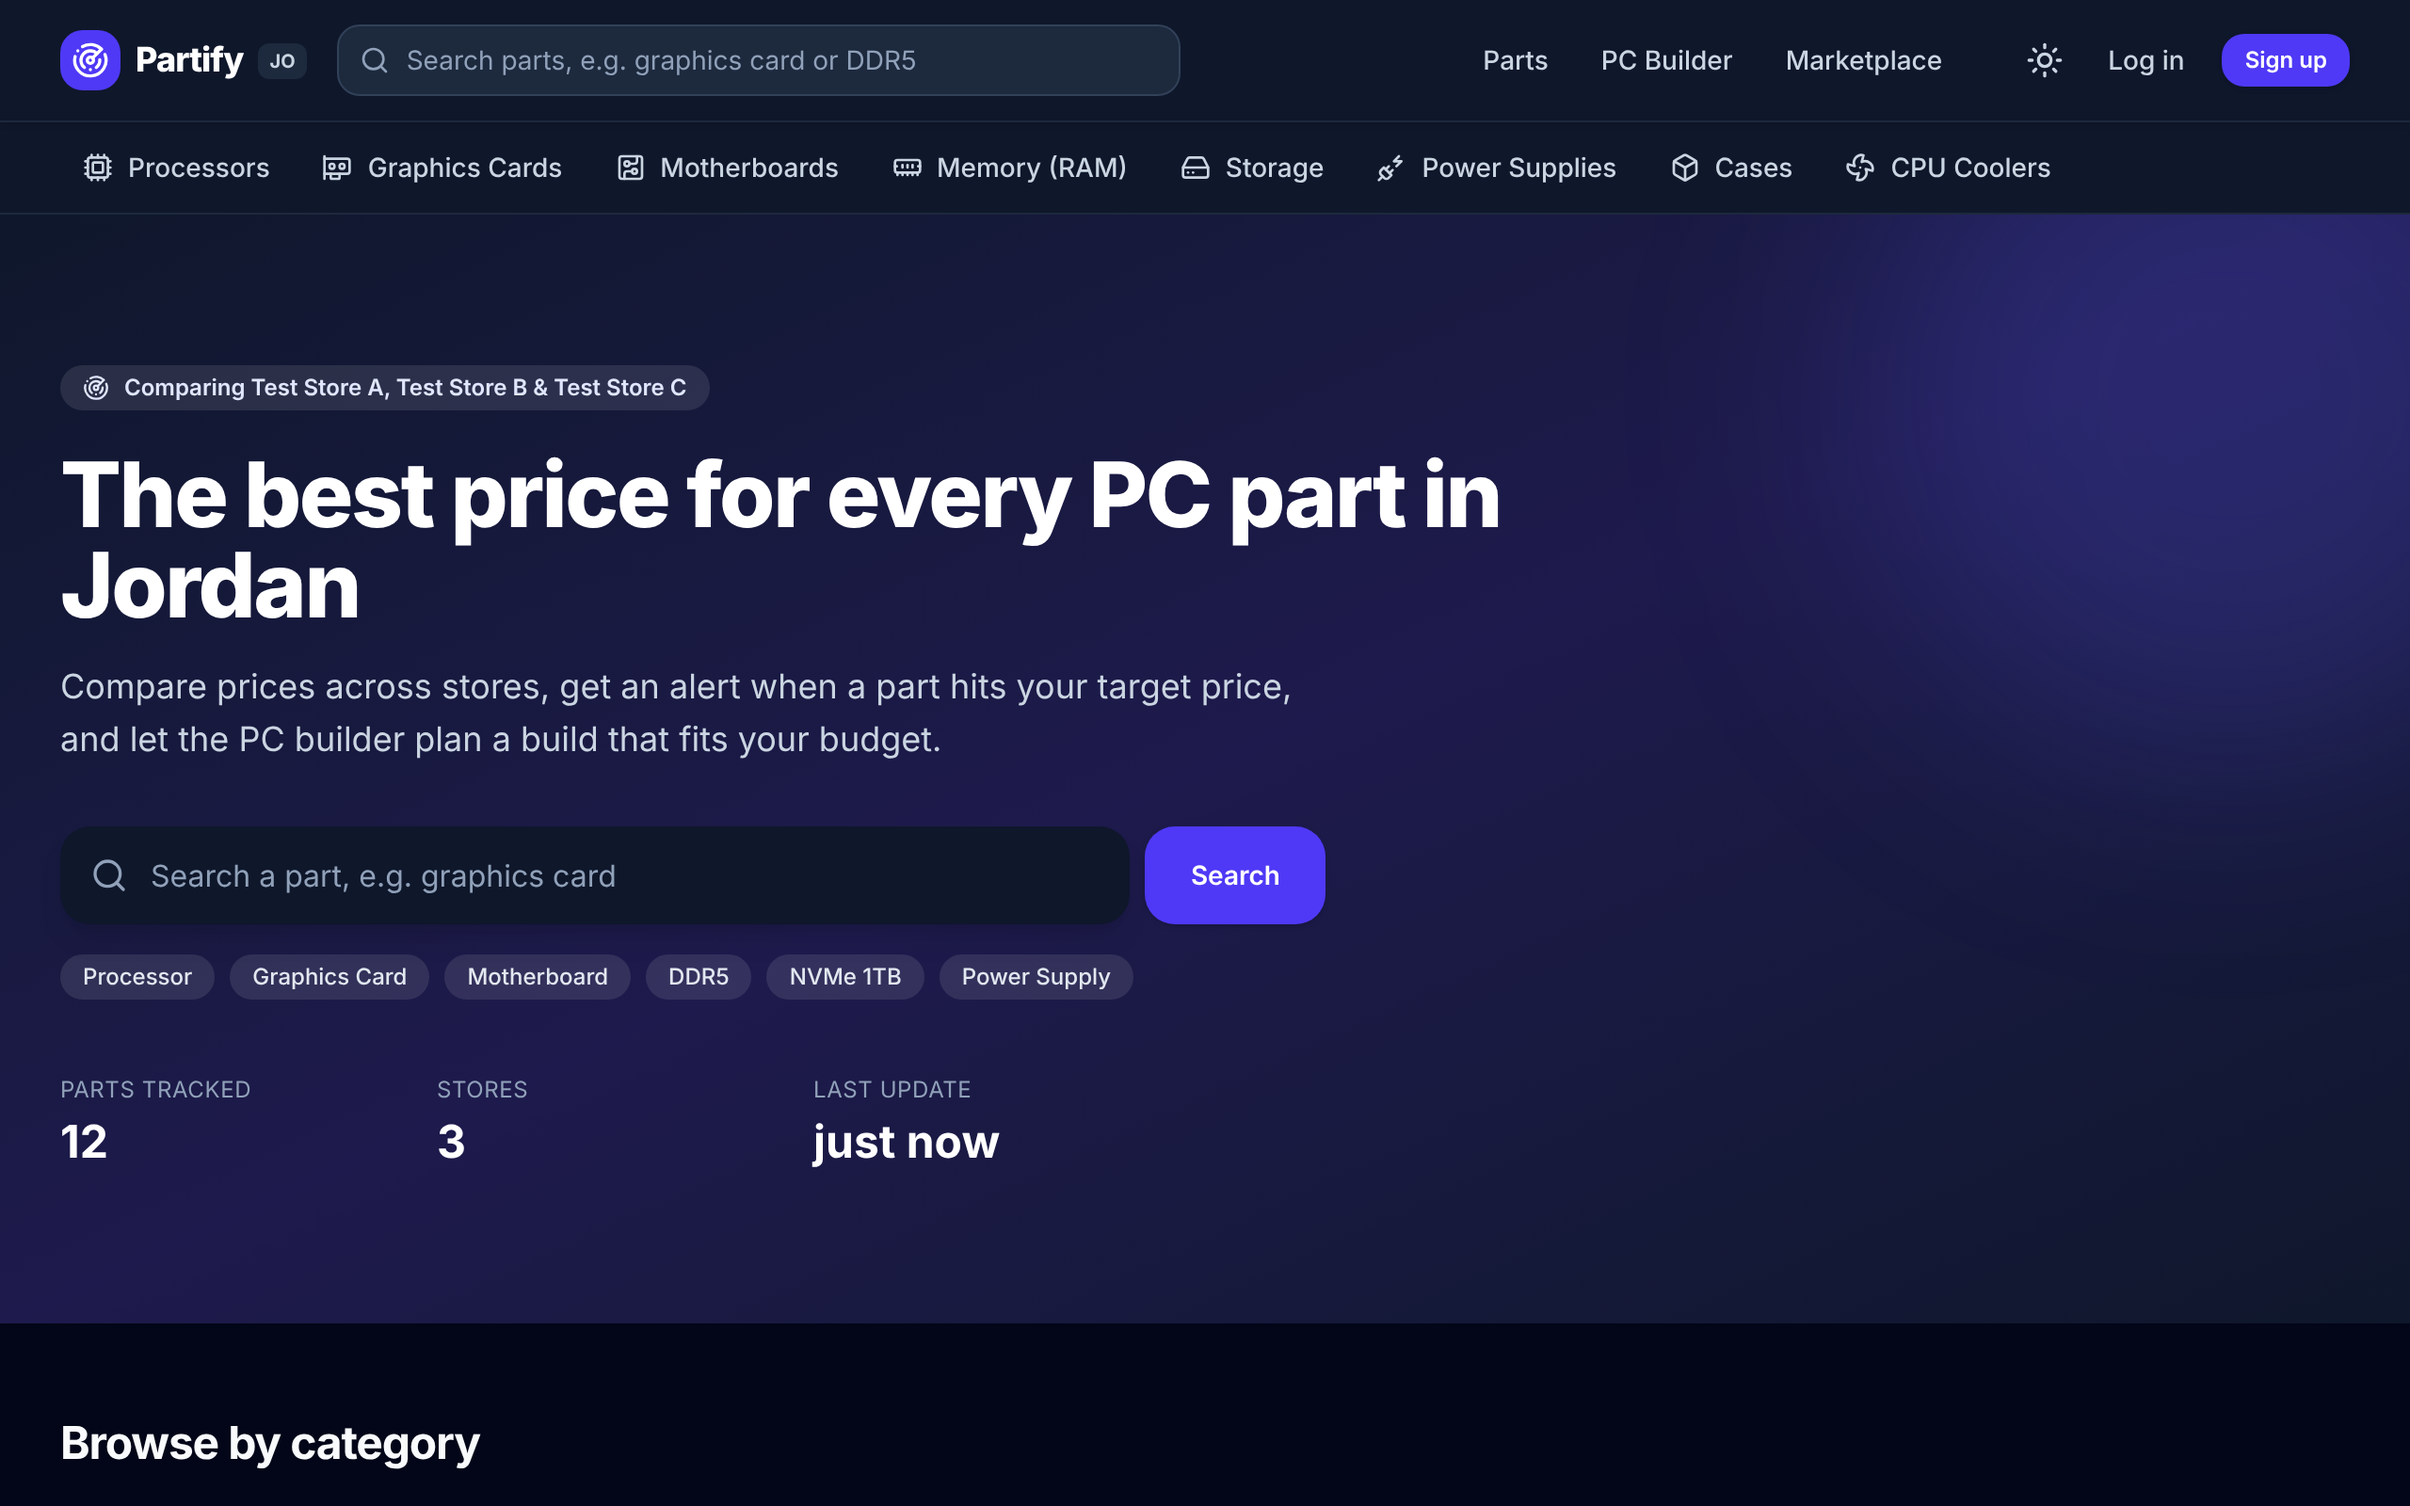
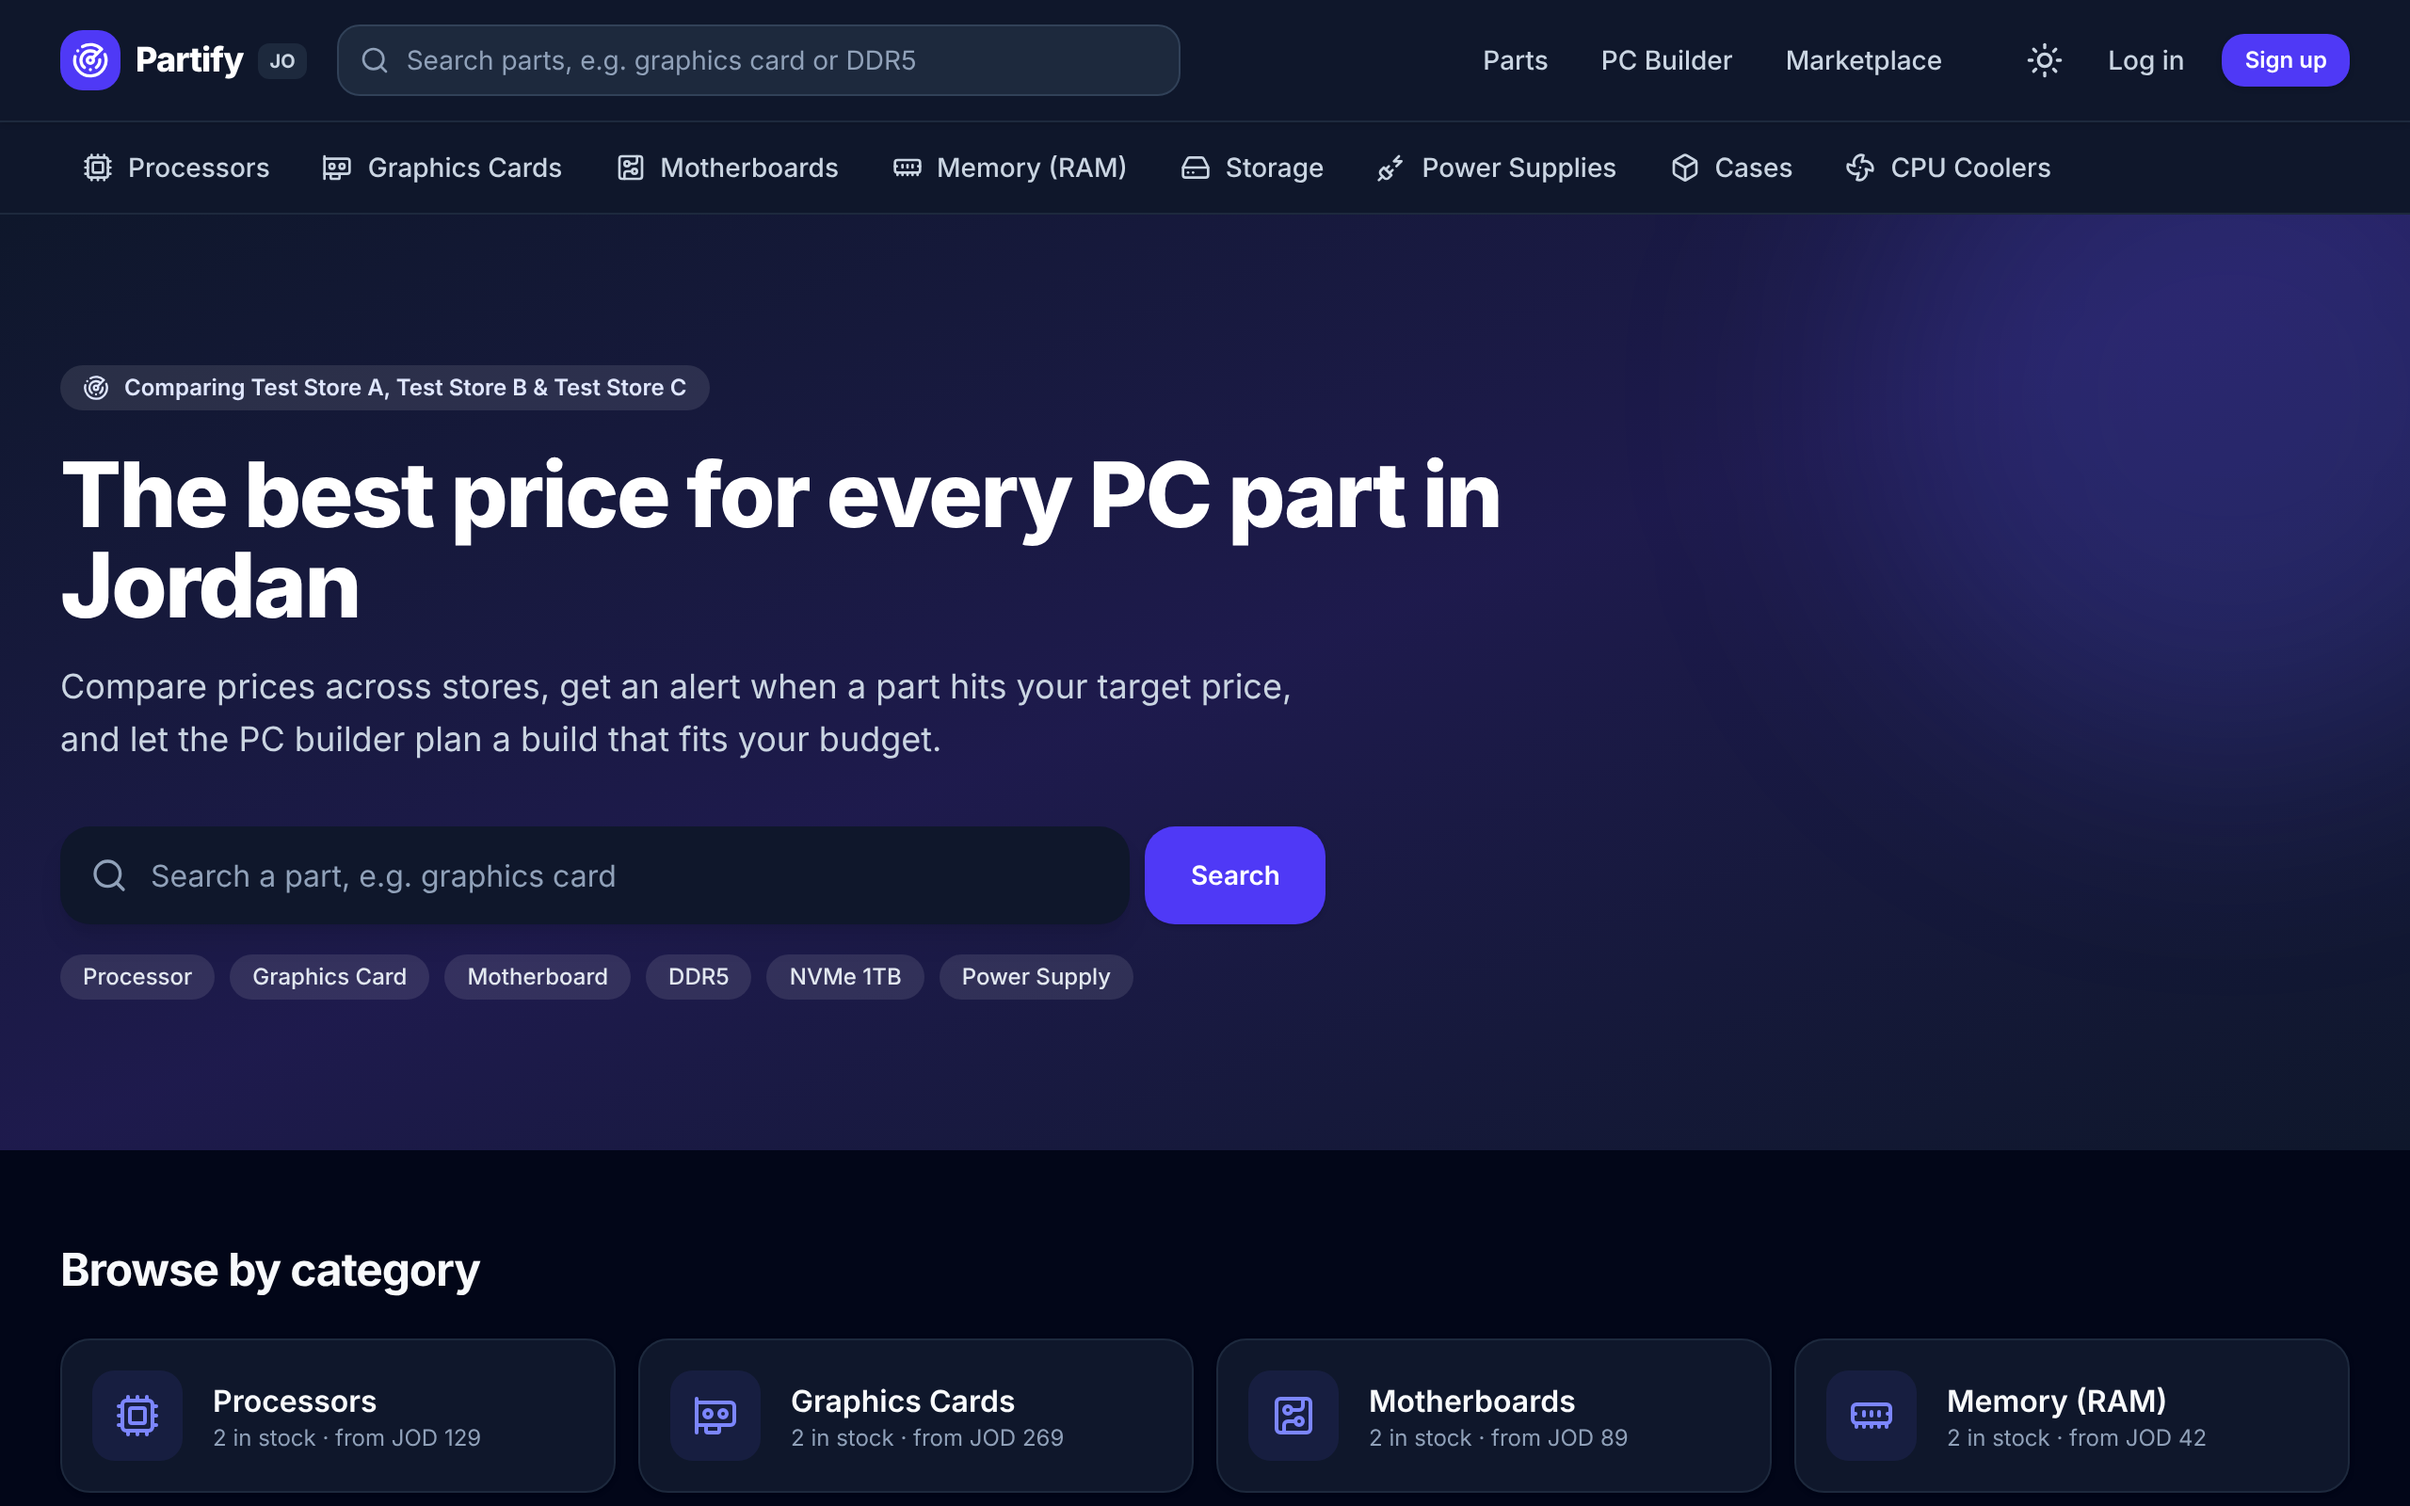
Remove the stats row, the store strip and two footer columns
- home page hero: drop the "Parts tracked / Stores / Last update" row
- home page: drop the strip that listed the stores and when they were updated
- footer: drop the "Stores we track" and "About the data" columns
- remove the code and imports that only those parts used
- regenerate the two home-page README screenshots

Claude-Session: https://claude.ai/code/session_015P2sEXUDHGGgnTTbpvn87W

Changed region(s): [[0.0, 0.7188, 1.0, 0.9688]]

diff --git a/frontend/src/pages/Home.jsx b/frontend/src/pages/Home.jsx
@@ -2,8 +2,8 @@ import { useState } from "react";
 import { Link, useNavigate } from "react-router";
 import { ArrowRight, BadgePercent, Bell, Radar, Search, ShoppingBag, Sparkles, Wrench } from "lucide-react";
 import { ProductCard } from "../components/ProductCard";
-import { ProductImage, StoreBadge } from "../components/ui";
-import { CATEGORIES, CONDITIONS, formatPrice, timeAgo, timeAgoShort } from "../lib/format";
+import { ProductImage } from "../components/ui";
+import { CATEGORIES, CONDITIONS, formatPrice } from "../lib/format";
 import { useApi } from "../lib/useApi";
 
 const QUICK = ["Processor", "Graphics Card", "Motherboard", "DDR5", "NVMe 1TB", "Power Supply"];
@@ -18,9 +18,6 @@ function Hero() {
   const navigate = useNavigate();
   const [q, setQ] = useState("");
   const { data: stores } = useApi("/stores");
-  const { data: cats } = useApi("/categories");
-  const tracked = (cats || []).reduce((n, c) => n + c.product_count, 0);
-  const lastUpdate = (stores || []).map((s) => s.prices_updated_at).filter(Boolean).sort().pop();
   // "Comparing A, B & C" - built from the stores in the database, so it is always accurate
   const names = (stores || []).map((s) => s.name);
   const storeList = names.length > 1 ? `${names.slice(0, -1).join(", ")} & ${names[names.length - 1]}` : names[0];
@@ -65,20 +62,6 @@ function Hero() {
               </Link>
             ))}
           </div>
-          <dl className="mt-10 grid max-w-xl grid-cols-3 gap-6">
-            <div>
-              <dt className="text-xs uppercase tracking-wide text-slate-400">Parts tracked</dt>
-              <dd className="mt-1 text-2xl font-bold">{tracked ? tracked.toLocaleString() : "—"}</dd>
-            </div>
-            <div>
-              <dt className="text-xs uppercase tracking-wide text-slate-400">Stores</dt>
-              <dd className="mt-1 text-2xl font-bold">{stores?.length ?? "—"}</dd>
-            </div>
-            <div>
-              <dt className="text-xs uppercase tracking-wide text-slate-400">Last update</dt>
-              <dd className="mt-1 text-2xl font-bold">{lastUpdate ? timeAgoShort(lastUpdate) : "—"}</dd>
-            </div>
-          </dl>
         </div>
       </div>
     </section>
@@ -228,25 +211,6 @@ function LatestListings() {
   );
 }
 
-function StoresStrip() {
-  const { data } = useApi("/stores");
-  return (
-    <section className="container-page mt-14">
-      <div className="card flex flex-col gap-4 p-5 sm:flex-row sm:items-center sm:justify-between">
-        <div className="text-sm text-slate-600 dark:text-slate-300">Prices in our database come from:</div>
-        <div className="flex flex-wrap gap-x-6 gap-y-2">
-          {(data || []).map((s) => (
-            <div key={s.id} className="flex items-center gap-2">
-              <StoreBadge store={s} className="font-semibold" />
-              <span className="text-xs text-slate-400">{timeAgo(s.prices_updated_at)}</span>
-            </div>
-          ))}
-        </div>
-      </div>
-    </section>
-  );
-}
-
 export default function Home() {
   return (
     <>
@@ -256,7 +220,6 @@ export default function Home() {
       <BuildPresets />
       <Features />
       <LatestListings />
-      <StoresStrip />
     </>
   );
 }

diff --git a/frontend/src/components/Layout.jsx b/frontend/src/components/Layout.jsx
@@ -5,10 +5,9 @@ import {
 } from "lucide-react";
 import { api } from "../lib/api";
 import { useAuth } from "../lib/auth";
-import { CATEGORIES, timeAgo } from "../lib/format";
+import { CATEGORIES } from "../lib/format";
 import { useTheme } from "../lib/theme";
-import { useApi } from "../lib/useApi";
-import { Avatar, PageLoader, StoreBadge } from "./ui";
+import { Avatar, PageLoader } from "./ui";
 
 const NAV = [
   { to: "/parts/gpu", label: "Parts", match: "/parts" },
@@ -228,39 +227,16 @@ function CategoryBar() {
 }
 
 function Footer() {
-  const { data: stores } = useApi("/stores");
   return (
     <footer className="mt-16 border-t border-slate-200 dark:border-slate-800 bg-white dark:bg-slate-900">
-      <div className="container-page grid gap-8 py-10 md:grid-cols-3">
-        <div>
-          <div className="flex items-center gap-2 font-extrabold">
-            <Radar className="h-5 w-5 text-indigo-600 dark:text-indigo-400" /> Partify
-          </div>
-          <p className="mt-2 text-sm text-slate-500 dark:text-slate-400">
-            Compare PC part prices across Jordanian stores, get alerts when prices drop, plan your build with the PC
-            builder and trade used parts with other builders.
-          </p>
+      <div className="container-page py-10">
+        <div className="flex items-center gap-2 font-extrabold">
+          <Radar className="h-5 w-5 text-indigo-600 dark:text-indigo-400" /> Partify
         </div>
-        <div>
-          <h3 className="text-sm font-semibold text-slate-900 dark:text-slate-50">Stores we track</h3>
-          <ul className="mt-3 space-y-2">
-            {(stores || []).map((s) => (
-              <li key={s.id} className="flex items-center justify-between gap-3 text-sm">
-                <a href={s.base_url} target="_blank" rel="noreferrer" className="hover:underline">
-                  <StoreBadge store={s} />
-                </a>
-                <span className="text-xs text-slate-400">updated {timeAgo(s.prices_updated_at)}</span>
-              </li>
-            ))}
-          </ul>
-        </div>
-        <div className="text-sm text-slate-500 dark:text-slate-400">
-          <h3 className="font-semibold text-slate-900 dark:text-slate-50">About the data</h3>
-          <p className="mt-3">
-            This demo runs on hand-written test data: the stores, parts and prices are made up and are not real store
-            listings. They are kept in our database, with the date each store's prices were last updated.
-          </p>
-        </div>
+        <p className="mt-2 max-w-xl text-sm text-slate-500 dark:text-slate-400">
+          Compare PC part prices across Jordanian stores, get alerts when prices drop, plan your build with the PC
+          builder and trade used parts with other builders.
+        </p>
       </div>
       <div className="border-t border-slate-100 dark:border-slate-800 py-4 text-center text-xs text-slate-400">
         Partify · Graduation project · Prices in Jordanian Dinar (JOD)
